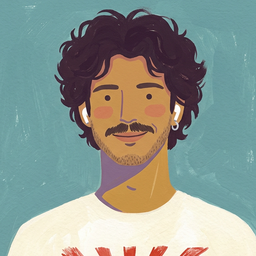
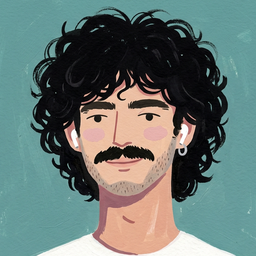
Karte: Marker, Route und Schilder im gemalten Gouache-Look (SVG-Pinselfilter, Tupfer statt Kreise); Joao final mit Martims Hautton; sw v22

diff --git a/index.html b/index.html
@@ -790,7 +790,7 @@ const KARTEN = [
     rota: 'M 176 16 C 190 35, 224 55, 238 88 C 250 118, 254 152, 244 188 C 233 228, 202 270, 193 305 C 186 340, 180 370, 163 394',
     seg: [[0.03, 0.19], [0.22, 0.50], [0.55, 0.78], [0.80, 0.97]],
     // Flug Sagres → Porto als gepunkteter Bogen über Land
-    extra: '<path d="M 163 394 C 310 340, 318 70, 180 16" fill="none" stroke="#b3a88e" stroke-width="2.5" stroke-linecap="round" stroke-dasharray="2 8" opacity=".7"/><text x="300" y="205" text-anchor="middle" fill="#7a6f5a" font-size="7" letter-spacing=".1em" font-family="Roboto Mono, monospace" stroke="#fffdf6" stroke-width="2.5" paint-order="stroke">VOO</text>' },
+    extra: '<path d="M 163 394 C 310 340, 318 70, 180 16" fill="none" stroke="#5a3a52" stroke-width="2.4" stroke-linecap="round" stroke-dasharray="3 8" opacity=".45" filter="url(#km-pinsel)"/><text x="300" y="205" text-anchor="middle" fill="#7a6f5a" font-size="7" letter-spacing=".1em" font-family="Roboto Mono, monospace" stroke="#fffdf6" stroke-width="2.5" paint-order="stroke">VOO</text>' },
 ];
 function renderKursMap() {
   const box1 = document.getElementById('kurs-map');
@@ -809,11 +809,18 @@ function renderKursMapFor(cfg) {
   box.innerHTML = `
     <div class="mono" style="font-size:.6rem; letter-spacing:.18em; text-transform:uppercase; color:var(--ink-soft); margin:0 0 .3rem .5rem">${cfg.titel} · ${done} von ${total} Tagen</div>
     <svg viewBox="0 0 320 411" style="width:100%; height:auto; display:block; border-radius:12px">
+      <defs>
+        <!-- Gouache-Look: raue, leicht ausgefranste Kanten wie ein trockener Pinsel -->
+        <filter id="km-pinsel" x="-20%" y="-20%" width="140%" height="140%">
+          <feTurbulence type="fractalNoise" baseFrequency=".09" numOctaves="2" seed="7" result="n"/>
+          <feDisplacementMap in="SourceGraphic" in2="n" scale="3.2" xChannelSelector="R" yChannelSelector="G"/>
+        </filter>
+      </defs>
       <image href="karte.png" x="0" y="0" width="320" height="411" preserveAspectRatio="xMidYMid slice"/>
-      <path id="km-weg" d="${ROTA}"
-        fill="none" stroke="#fffdf6" stroke-width="4.5" stroke-linecap="round" stroke-dasharray="1 9" opacity=".95"/>
-      <path id="km-fortschritt" d="${ROTA}"
-        fill="none" stroke="var(--clay)" stroke-width="4.5" stroke-linecap="round"/>
+      <path id="km-weg" d="${ROTA}" filter="url(#km-pinsel)"
+        fill="none" stroke="#fbf3e1" stroke-width="3.2" stroke-linecap="round" stroke-dasharray="4 7" opacity=".9"/>
+      <path id="km-fortschritt" d="${ROTA}" filter="url(#km-pinsel)"
+        fill="none" stroke="#c4553a" stroke-width="5" stroke-linecap="round"/>
       ${cfg.extra || ''}
       <g id="km-marker"></g>
     </svg>`;
@@ -836,28 +843,41 @@ function renderKursMapFor(cfg) {
     g.appendChild(e);
     return e;
   }
+  // Pinseltupfer statt Zirkel-Kreis: unregelmäßiger Umriss, pro Position immer gleich
+  function tupfer(cx, cy, r, attrs) {
+    let z = Math.round(cx * 13 + cy * 7) % 233 + 1;
+    const rnd = () => (z = (z * 73 + 41) % 233) / 233;
+    const n = 9, pts = [];
+    for (let i = 0; i < n; i++) {
+      const a = i / n * Math.PI * 2 + rnd() * .3, rr = r * (.86 + rnd() * .28);
+      pts.push([cx + Math.cos(a) * rr, cy + Math.sin(a) * rr * (.92 + rnd() * .12)]);
+    }
+    const m = (p, q) => [(p[0] + q[0]) / 2, (p[1] + q[1]) / 2];
+    let d = 'M ' + m(pts[n - 1], pts[0]).join(' ');
+    for (let i = 0; i < n; i++) d += ` Q ${pts[i].join(' ')} ${m(pts[i], pts[(i + 1) % n]).join(' ')}`;
+    return el('path', { d: d + ' Z', filter: 'url(#km-pinsel)', ...attrs });
+  }
   // Tages-Punkte aller offenen Wochen
   for (let w = w0; w < w0 + 4; w++) {
     if (!wocheOffen(w)) continue;
     for (let i = 0; i < 7; i++) {
       const p = weg.getPointAtLength(dayFrac(w, i + 1) * L);
-      el('circle', { cx: p.x, cy: p.y, r: 4.5,
-        fill: i < wocheDone(w) ? 'var(--clay)' : '#fffdf6',
-        stroke: i < wocheDone(w) ? '#fffdf6' : '#b3a88e', 'stroke-width': 1.6 });
+      const fertig = i < wocheDone(w);
+      tupfer(p.x, p.y, fertig ? 4.6 : 4.2, fertig
+        ? { fill: '#c4553a', stroke: '#fbf3e1', 'stroke-width': 1.3 }
+        : { fill: '#fbf3e1', stroke: '#5a3a52', 'stroke-width': 1, 'stroke-opacity': .45 });
     }
   }
   // Etappen-Stationen
   cfg.etappen.forEach((e2, i) => {
     const p = weg.getPointAtLength(e2.frac * L);
     const erreicht = wocheOffen(w0 + i);
-    el('circle', { cx: p.x, cy: p.y, r: 13,
-      fill: '#fffdf6', stroke: erreicht ? 'var(--clay)' : '#b3a88e', 'stroke-width': 2,
-      opacity: .95 });
+    tupfer(p.x, p.y, 13.5, { fill: '#fbf3e1', stroke: erreicht ? '#c4553a' : '#8a7a86', 'stroke-width': 2.4 });
     if (!erreicht) {
       el('rect', { x: p.x - 3.5, y: p.y - 2.5, width: 7, height: 6, rx: 1.2, fill: 'none', stroke: '#9a8d72', 'stroke-width': 1.4 });
       el('path', { d: `M ${p.x - 2.2} ${p.y - 2.5} v -1.6 a 2.2 2.2 0 0 1 4.4 0 v 1.6`, fill: 'none', stroke: '#9a8d72', 'stroke-width': 1.4 });
     } else {
-      el('path', { d: `M ${p.x - 4.5} ${p.y + 1} q 2.2 -4.5 4.5 0 q 2.3 4.5 4.5 0`, fill: 'none', stroke: 'var(--clay)', 'stroke-width': 2, 'stroke-linecap': 'round' });
+      el('path', { d: `M ${p.x - 5} ${p.y + 1} q 2.5 -5 5 0 q 2.5 5 5 0`, fill: 'none', stroke: '#c4553a', 'stroke-width': 2.4, 'stroke-linecap': 'round', filter: 'url(#km-pinsel)' });
     }
     const rechts = cfg.rechts.includes(i);
     const lx = rechts ? p.x + 24 : p.x - 24;
@@ -865,8 +885,7 @@ function renderKursMapFor(cfg) {
     const wName = e2.name.length * 7.1, wSub = e2.sub.length * 4.7;
     const wChip = Math.max(wName, wSub) + 14;
     el('rect', { x: rechts ? lx - 7 : lx - wChip + 7, y: p.y - 10,
-      width: wChip, height: 28, rx: 8, fill: '#fffdf6', opacity: .92,
-      stroke: '#e6dcc6', 'stroke-width': 1 });
+      width: wChip, height: 28, rx: 7, fill: '#fbf3e1', opacity: .94, filter: 'url(#km-pinsel)' });
     const t = el('text', { x: lx, y: p.y + 1, 'text-anchor': anker,
       fill: 'var(--ink)', 'font-size': '11.5', 'font-weight': '700',
       'font-family': 'Space Grotesk, sans-serif' });
@@ -903,10 +922,12 @@ function renderKursMapFor(cfg) {
 
   // Surfbrett-Marker an aktueller Position
   const mp = weg.getPointAtLength(doneFrac * L);
-  el('ellipse', { cx: mp.x, cy: mp.y, rx: 7, ry: 12, fill: 'var(--clay)', stroke: '#fffdf6', 'stroke-width': 2.5,
+  // gemaltes Surfbrett: spitz zulaufende Form, Mittelstreifen, raue Kante
+  el('path', { d: `M ${mp.x} ${mp.y - 13} C ${mp.x + 8} ${mp.y - 6}, ${mp.x + 7.5} ${mp.y + 7}, ${mp.x + 1} ${mp.y + 13} C ${mp.x - 7} ${mp.y + 8}, ${mp.x - 8} ${mp.y - 5}, ${mp.x} ${mp.y - 13} Z`,
+    fill: '#e9a23b', stroke: '#fbf3e1', 'stroke-width': 2, filter: 'url(#km-pinsel)',
     transform: `rotate(28 ${mp.x} ${mp.y})` });
-  el('line', { x1: mp.x, y1: mp.y - 8, x2: mp.x, y2: mp.y + 8, stroke: '#fff8f2', 'stroke-width': 1.3,
-    transform: `rotate(28 ${mp.x} ${mp.y})` });
+  el('line', { x1: mp.x, y1: mp.y - 8.5, x2: mp.x + .5, y2: mp.y + 8.5, stroke: '#5a3a52', 'stroke-width': 1.4, 'stroke-linecap': 'round',
+    filter: 'url(#km-pinsel)', transform: `rotate(28 ${mp.x} ${mp.y})` });
 }
 /* Anzeige-Nummer: fortlaufend über die Lerntage, der Bonus bekommt ein B */
 function lessonNum(l) {

diff --git a/sw.js b/sw.js
@@ -1,6 +1,6 @@
 // Zwei getrennte Caches: die Shell wird bei jedem Update ersetzt, die Audios
 // bleiben liegen – ein Versionssprung darf keine 15 MB Neudownload auslösen.
-const SHELL = 'boa-onda-shell-v21';
+const SHELL = 'boa-onda-shell-v22';
 const AUDIO = 'boa-onda-audio-v1';
 const LEKTIONEN = Array.from({ length: 56 }, (_, i) => `./lektionen/tag${String(i + 1).padStart(2, '0')}.json`).concat(['./lektionen/sagres.json']);
 const CORE = [
